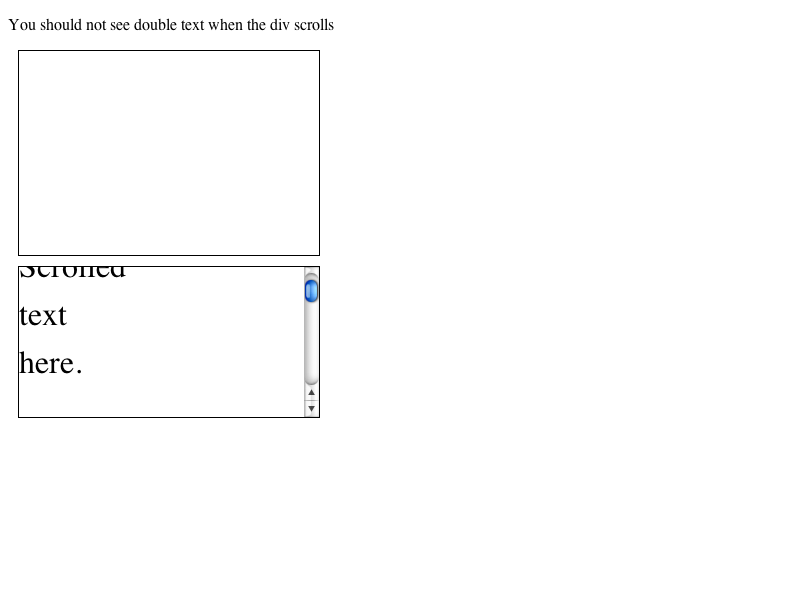
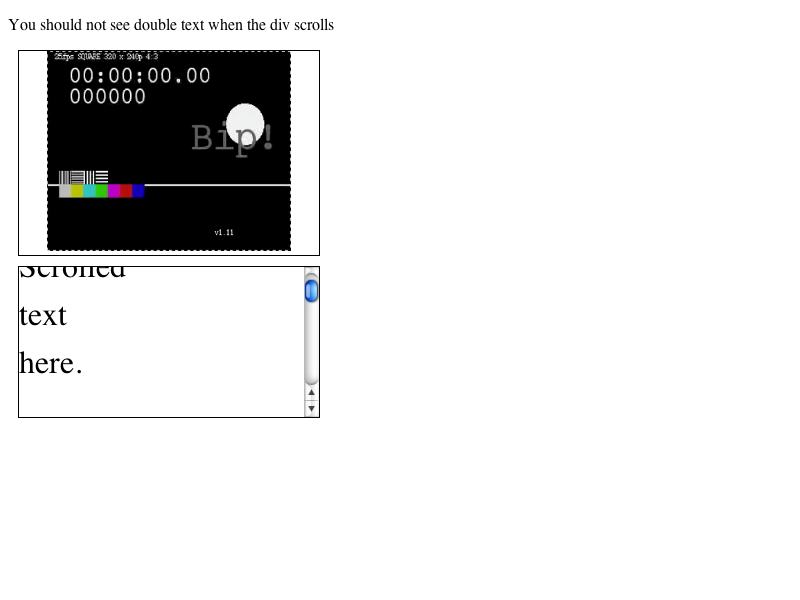
2009-11-29  Simon Fraser  <simon.fraser@apple.com>
Rubber-stamped by Eric Seidel.

        Fix up some compositing layout tests.

        * compositing/layers-inside-overflow-scroll.html:
        * compositing/self-painting-layers.html:
        Use the 'loadeddata' event, instead of 'load', to know when the video loads.

        * platform/mac/compositing/repaint/content-into-overflow-expected.checksum:
        * platform/mac/compositing/repaint/content-into-overflow-expected.png:
        * platform/mac/compositing/repaint/overflow-into-content-expected.checksum:
        * platform/mac/compositing/repaint/overflow-into-content-expected.png:
        * platform/mac/compositing/self-painting-layers-expected.checksum:
        * platform/mac/compositing/self-painting-layers-expected.png:
        Update with correct pixel results.

git-svn-id: http://svn.webkit.org/repository/webkit/trunk/LayoutTests@51478 268f45cc-cd09-0410-ab3c-d52691b4dbfc

Changed region(s): [[0.0312, 0.06, 0.375, 0.42]]

diff --git a/compositing/layers-inside-overflow-scroll.html b/compositing/layers-inside-overflow-scroll.html
@@ -47,14 +47,16 @@
       }
       
       window.addEventListener('load', function() {
-        document.getElementById('video').src = "resources/video.mp4";
+        var video = document.getElementById('video');
+        video.addEventListener('loadeddata', testOnLoad, false);
+        video.src = "resources/video.mp4";
       }, false);
     </script>
   </head>
   <body>
       <p>The red box in the overflow:scroll div should be scrolled out of view.</p>
         <div id="container">
-          <video id="video" width="300" height="200" onload="testOnLoad()"></video>
+          <video id="video" width="300" height="200"></video>
         </div>
 
         <div id="details">

diff --git a/compositing/self-painting-layers.html b/compositing/self-painting-layers.html
@@ -41,14 +41,16 @@
       }
       
       window.addEventListener('load', function() {
-        document.getElementById('video').src = "resources/video.mp4";
+        var video = document.getElementById('video');
+        video.addEventListener('loadeddata', testOnLoad, false);
+        video.src = "resources/video.mp4";
       }, false);
     </script>
   </head>
   <body>
       <p>You should not see double text when the div scrolls</p>
         <div id="container">
-          <video id="video" width="300" height="200" onload="testOnLoad()"></video>
+          <video id="video" width="300" height="200"></video>
         </div>
 
         <div id="details">
